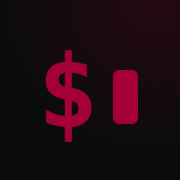
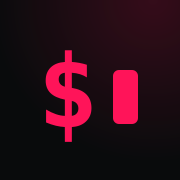
Fix OG image

Changed region(s): [[0.25, 0.2778, 0.5278, 0.8056], [0.6111, 0.3889, 0.7778, 0.6944]]

diff --git a/src/styles/app.css b/src/styles/app.css
@@ -14,7 +14,7 @@
 	--card-foreground: oklch(0.148 0.004 228.8);
 	--popover: oklch(1 0 0);
 	--popover-foreground: oklch(0.148 0.004 228.8);
-	--primary: oklch(0.514 0.222 16.935);
+	--primary: oklch(0.48 0.22 15);
 	--primary-foreground: oklch(0.969 0.015 12.422);
 	--secondary: oklch(0.967 0.001 286.375);
 	--secondary-foreground: oklch(0.21 0.006 285.885);
@@ -27,11 +27,11 @@
 	--border: oklch(0.925 0.005 214.3);
 	--input: oklch(0.925 0.005 214.3);
 	--ring: oklch(0.723 0.014 214.4);
-	--chart-1: oklch(0.81 0.117 11.638);
-	--chart-2: oklch(0.645 0.246 16.439);
-	--chart-3: oklch(0.586 0.253 17.585);
-	--chart-4: oklch(0.514 0.222 16.935);
-	--chart-5: oklch(0.455 0.188 13.697);
+	--chart-1: oklch(0.89 0.08 15);
+	--chart-2: oklch(0.78 0.13 15);
+	--chart-3: oklch(0.62 0.2 15);
+	--chart-4: oklch(0.48 0.22 15);
+	--chart-5: oklch(0.4 0.19 15);
 	--sidebar: oklch(0.987 0.002 197.1);
 	--sidebar-foreground: oklch(0.148 0.004 228.8);
 	--sidebar-primary: oklch(0.586 0.253 17.585);
@@ -49,8 +49,8 @@
 	--card-foreground: oklch(0.987 0.002 197.1);
 	--popover: oklch(0.218 0.008 223.9);
 	--popover-foreground: oklch(0.987 0.002 197.1);
-	--primary: oklch(0.455 0.188 13.697);
-	--primary-foreground: oklch(0.969 0.015 12.422);
+	--primary: oklch(0.64 0.25 15);
+	--primary-foreground: oklch(0.16 0.02 15);
 	--secondary: oklch(0.274 0.006 286.033);
 	--secondary-foreground: oklch(0.985 0 0);
 	--muted: oklch(0.275 0.011 216.9);
@@ -62,11 +62,11 @@
 	--border: oklch(1 0 0 / 10%);
 	--input: oklch(1 0 0 / 15%);
 	--ring: oklch(0.56 0.021 213.5);
-	--chart-1: oklch(0.81 0.117 11.638);
-	--chart-2: oklch(0.645 0.246 16.439);
-	--chart-3: oklch(0.586 0.253 17.585);
-	--chart-4: oklch(0.514 0.222 16.935);
-	--chart-5: oklch(0.455 0.188 13.697);
+	--chart-1: oklch(0.87 0.08 15);
+	--chart-2: oklch(0.79 0.14 15);
+	--chart-3: oklch(0.71 0.2 15);
+	--chart-4: oklch(0.64 0.25 15);
+	--chart-5: oklch(0.55 0.22 15);
 	--sidebar: oklch(0.21 0.006 285.885);
 	--sidebar-foreground: oklch(0.987 0.002 197.1);
 	--sidebar-primary: oklch(0.645 0.246 16.439);

diff --git a/AGENTS.md b/AGENTS.md
@@ -70,8 +70,9 @@ scripts/
    `white`, etc.). Use `bg-background`, `text-foreground`, `text-muted-foreground`,
    `text-primary`, `border-border`. `<html>` carries `className="dark"` in
    `__root.tsx`, so the `.dark` token set drives the look.
-2. **The accent is rose — deep crimson `#a50036`** (`oklch(0.455 0.188 13.697)`).
-   This is intentional, NOT orange. Don't "fix" it.
+2. **The accent is crimson.** Dark theme (drives the live look): neon crimson
+   `#ff1459` (`oklch(0.64 0.25 15)`). Light theme: deep crimson `#b90033`
+   (`oklch(0.48 0.22 15)`). All accent pairs are WCAG AA ≥4.5:1.
 3. **Copy lives in `src/lib/me.ts`.** Nothing else hardcodes text. Update `me.ts`
    to change what the site says. (The `email` link is a known placeholder — leave it.)
 4. **Tailwind via `@tailwindcss/vite` in `vite.config.ts` — NOT PostCSS.** The
